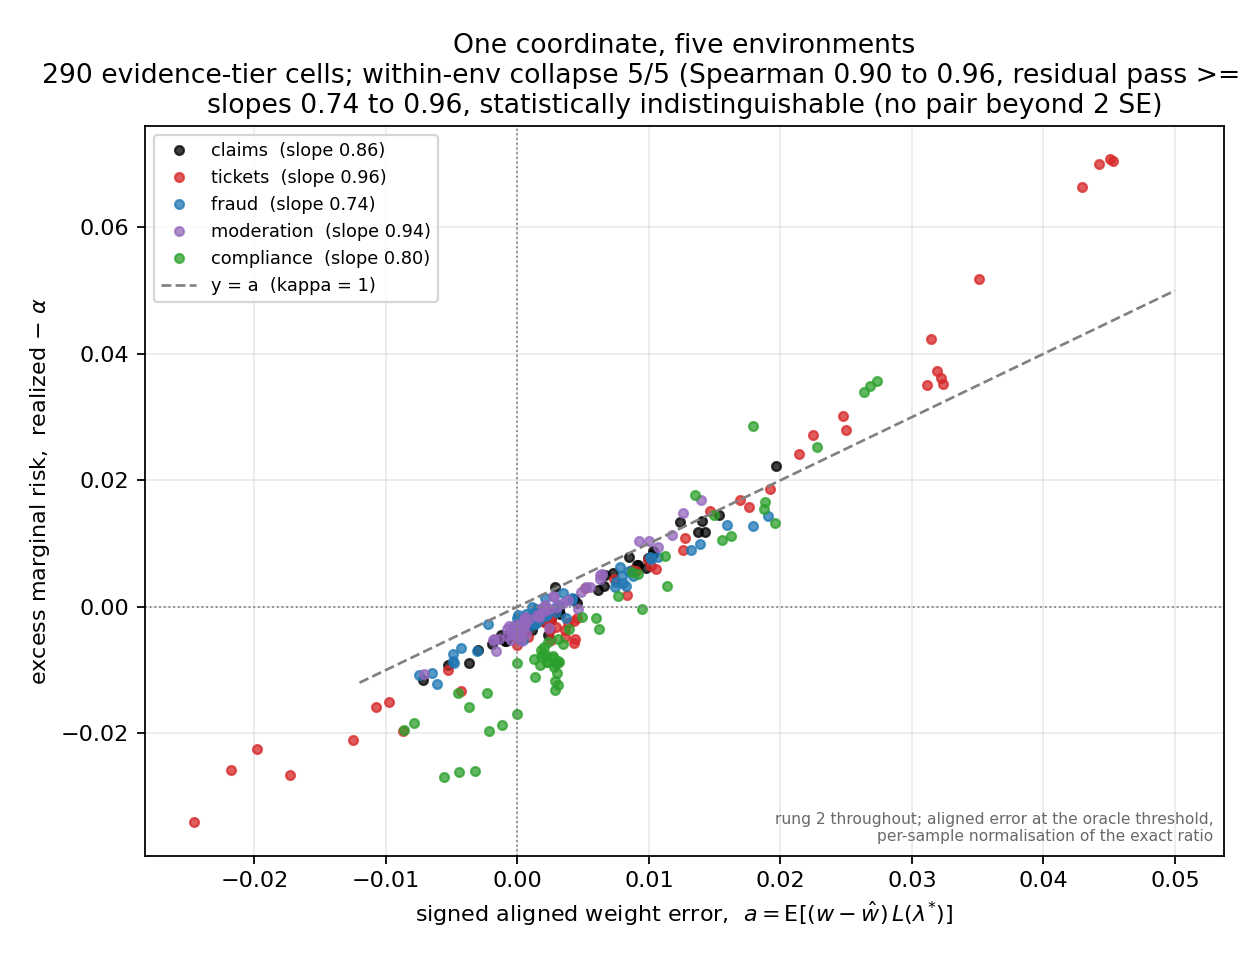
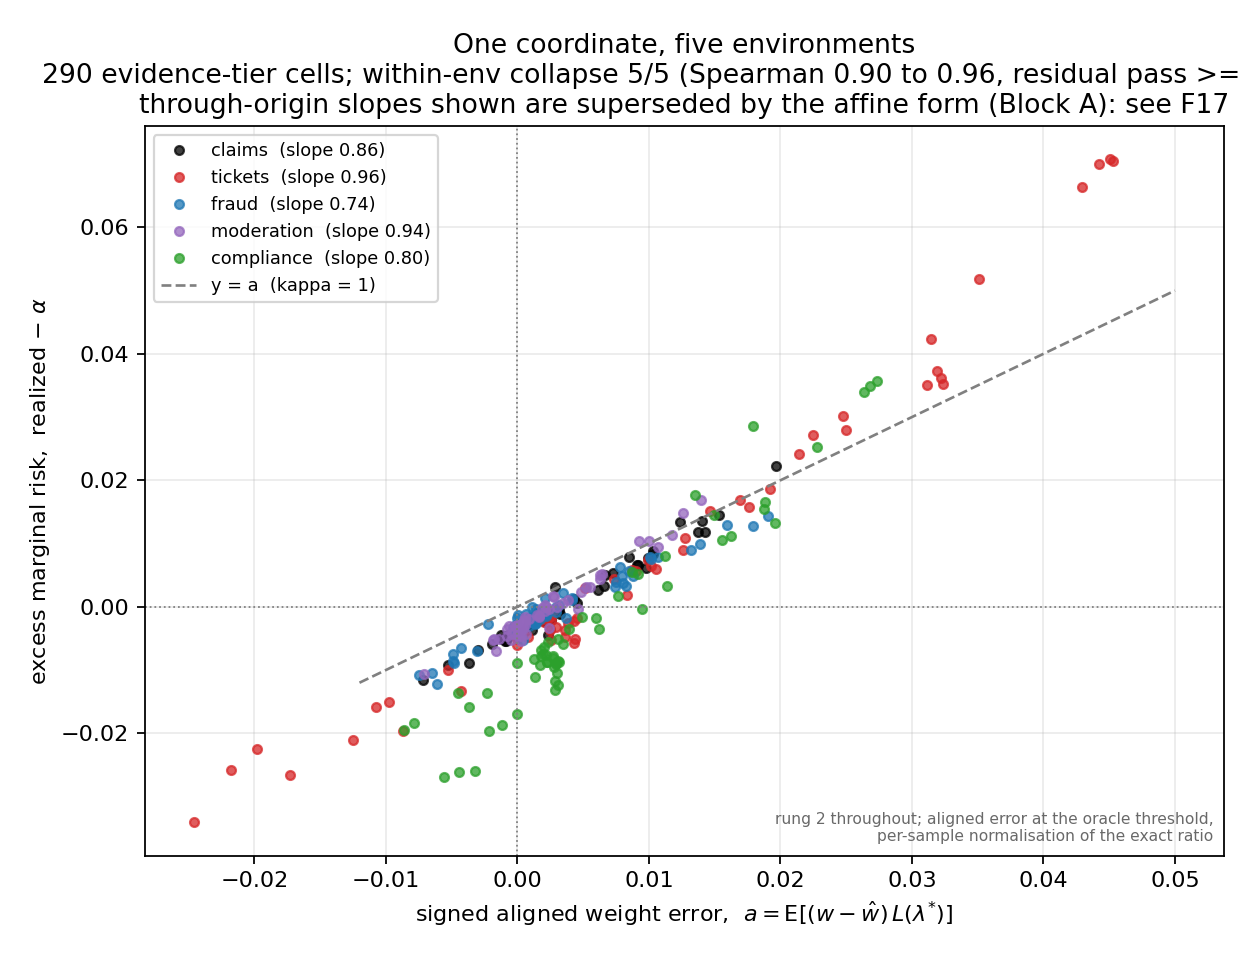
Regenerate five-environment figure without the retracted slope language
The caption's 'statistically indistinguishable' claim was retracted by
the Block A amendment; the figure now points to the affine form (F17).
Analysis tier, freely regenerated.

Changed region(s): [[0.0938, 0.0938, 0.9688, 0.125]]

diff --git a/experiments/wp1_misspec_family/plot_all.py b/experiments/wp1_misspec_family/plot_all.py
@@ -48,8 +48,8 @@ def main() -> None:
     ax.set_title("One coordinate, five environments\n"
                  f"{n} evidence-tier cells; within-env collapse 5/5 "
                  "(Spearman 0.90 to 0.96, residual pass >= 98%);\n"
-                 "slopes 0.74 to 0.96, statistically indistinguishable "
-                 "(no pair beyond 2 SE)")
+                 "through-origin slopes shown are superseded by the affine "
+                 "form (Block A): see F17")
     ax.legend(fontsize=8, loc="upper left")
     ax.grid(alpha=0.25)
     ax.text(0.99, 0.02,
